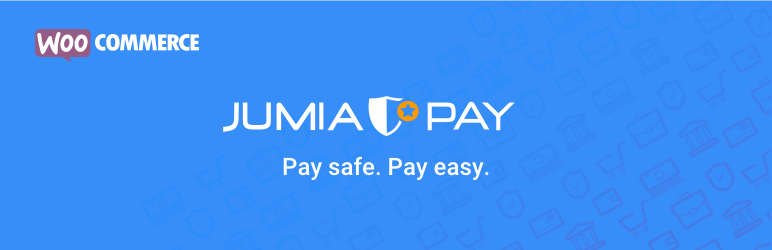
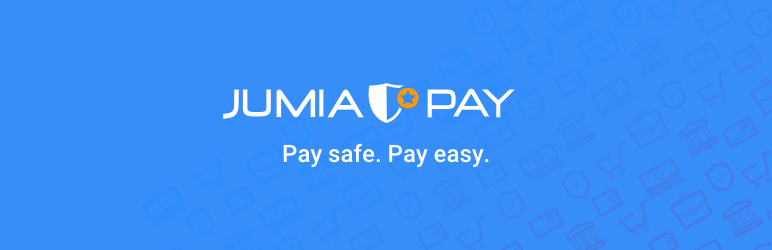
Approval submit changes (#5)
* Approval Request Changes
* Change images- removing woocommerce
* Fixed approval requests
* Add Payment Status Validation on return URL handling
* Plugin Name
* Add contributors to the readme

Changed region(s): [[0.2798, 0.336, 0.6839, 0.728], [0.0, 0.0, 1.0, 0.028], [0.0311, 0.112, 0.2798, 0.252]]

diff --git a/inc/WC_JumiaPay_Purchase.php b/inc/WC_JumiaPay_Purchase.php
@@ -48,7 +48,7 @@ class WC_JumiaPay_Purchase {
             $merchantReferenceId= substr($merchantReferenceId,0,255);
         }
 
-        return $merchantReferenceId;
+        return sanitize_text_field($merchantReferenceId);
     }
 
     private function getBasket() {
@@ -68,12 +68,12 @@ class WC_JumiaPay_Purchase {
                 $featured_img_url="";
             }
             $basketItem=[
-                "name"=> $item->get_name(),
-                "imageUrl"=>$featured_img_url ,
-                "amount"=> $item->get_subtotal(),
-                "quantity"=> $item->get_quantity(),
-                "discount"=>"",
-                "currency"=> $this->currency
+                "name"=> sanitize_text_field($item->get_name()),
+                "imageUrl"=>  esc_url_raw($featured_img_url),
+                "amount"=> sanitize_text_field($item->get_subtotal()),
+                "quantity"=> sanitize_text_field($item->get_quantity()),
+                "discount"=> "",
+                "currency"=> sanitize_text_field($this->currency)
             ];
             array_push($basketItems,$basketItem);
 
@@ -87,52 +87,52 @@ class WC_JumiaPay_Purchase {
         return [
             "shopConfig" => $this->shopConfig,
             "basket"=> [
-                "shipping"=>$this->order->get_shipping_tax(),
+                "shipping"=>sanitize_text_field($this->order->get_shipping_tax()),
                 "currency"=>$this->currency,
                 "basketItems"=>$this->getBasket(),
-                "totalAmount"=> $this->order->get_total(),
-                "discount"=>$this->order->get_discount_total(),
+                "totalAmount"=> sanitize_text_field($this->order->get_total()),
+                "discount"=>sanitize_text_field($this->order->get_discount_total()),
             ],
             "consumerData"=> [
-                "emailAddress"=> $this->order->get_billing_email(),
-                "mobilePhoneNumber"=> $this->order->get_billing_phone(),
-                "country"=> $this->countryCode,
-                "firstName"=> $this->order->get_billing_first_name(),
-                "lastName"=> $this->order->get_billing_last_name(),
-                "ipAddress"=> $this->order->get_customer_ip_address(),
+                "emailAddress"=> sanitize_email($this->order->get_billing_email()),
+                "mobilePhoneNumber"=> wc_sanitize_phone_number($this->order->get_billing_phone()),
+                "country"=> sanitize_text_field($this->countryCode),
+                "firstName"=> sanitize_text_field($this->order->get_billing_first_name()),
+                "lastName"=> sanitize_text_field($this->order->get_billing_last_name()),
+                "ipAddress"=> sanitize_text_field($this->order->get_customer_ip_address()),
                 "dateOfBirth"=> "",
                 "language"=> $this->language,
-                "name"=> $this->order->get_billing_first_name()." ".$this->order->get_billing_last_name()
+                "name"=> sanitize_text_field($this->order->get_billing_first_name()." ".$this->order->get_billing_last_name())
             ],
             "priceCurrency"=> $this->currency,
-            "priceAmount"=> $this->order->get_total(),
-            "purchaseReturnUrl"=>  $this->baseUrl."/wc-api/payment_return/?orderid=".$this->order->get_id(),
-            "purchaseCallbackUrl"=>  $this->baseUrl."/wc-api/payment_callback/?orderid=".$this->order->get_id(),
+            "priceAmount"=> sanitize_text_field($this->order->get_total()),
+            "purchaseReturnUrl"=>  esc_url_raw($this->baseUrl."/wc-api/payment_return/?orderid=".$this->order->get_id()),
+            "purchaseCallbackUrl"=> esc_url_raw($this->baseUrl."/wc-api/payment_callback/?orderid=".$this->order->get_id()),
             "shippingAddress"=> [
-                "addressLine1"=> $this->order->get_shipping_address_1(),
-                "addressLine2"=> $this->order->get_shipping_address_2(),
-                "city"=> $this->order->get_shipping_city(),
-                "district"=> $this->order->get_shipping_state(),
-                "province"=> $this->order->get_shipping_state(),
-                "zip"=> $this->order->get_shipping_postcode(),
-                "country"=> $this->order->get_shipping_country(),
-                "name"=> $this->order->get_shipping_first_name()." ".$this->order->get_shipping_last_name(),
-                "firstName"=> $this->order->get_shipping_first_name(),
-                "lastName"=> $this->order->get_shipping_last_name(),
-                "mobilePhoneNumber"=> $this->order->get_billing_phone()
+                "addressLine1"=> sanitize_text_field($this->order->get_shipping_address_1()),
+                "addressLine2"=> sanitize_text_field($this->order->get_shipping_address_2()),
+                "city"=> sanitize_text_field($this->order->get_shipping_city()),
+                "district"=> sanitize_text_field($this->order->get_shipping_state()),
+                "province"=> sanitize_text_field($this->order->get_shipping_state()),
+                "zip"=> sanitize_text_field($this->order->get_shipping_postcode()),
+                "country"=> sanitize_text_field($this->order->get_shipping_country()),
+                "name"=> sanitize_text_field($this->order->get_shipping_first_name()." ".$this->order->get_shipping_last_name()),
+                "firstName"=> sanitize_text_field($this->order->get_shipping_first_name()),
+                "lastName"=> sanitize_text_field($this->order->get_shipping_last_name()),
+                "mobilePhoneNumber"=> wc_sanitize_phone_number($this->order->get_billing_phone())
             ],
             "billingAddress"=> [
-                "addressLine1"=> $this->order->get_billing_address_1(),
-                "addressLine2"=> $this->order->get_billing_address_2(),
-                "city"=> $this->order->get_billing_city(),
-                "district"=> $this->order->get_billing_state(),
-                "province"=> $this->order->get_billing_state(),
-                "zip"=> $this->order->get_billing_postcode(),
-                "country"=> $this->order->get_billing_country(),
-                "name"=> $this->order->get_billing_first_name()." ".$this->order->get_billing_last_name(),
-                "firstName"=> $this->order->get_billing_first_name(),
-                "lastName"=> $this->order->get_billing_last_name(),
-                "mobilePhoneNumber"=> $this->order->get_billing_phone()
+                "addressLine1"=> sanitize_text_field($this->order->get_billing_address_1()),
+                "addressLine2"=> sanitize_text_field($this->order->get_billing_address_2()),
+                "city"=> sanitize_text_field($this->order->get_billing_city()),
+                "district"=> sanitize_text_field($this->order->get_billing_state()),
+                "province"=> sanitize_text_field($this->order->get_billing_state()),
+                "zip"=> sanitize_text_field($this->order->get_billing_postcode()),
+                "country"=> sanitize_text_field($this->order->get_billing_country()),
+                "name"=> sanitize_text_field($this->order->get_billing_first_name()." ".$this->order->get_billing_last_name()),
+                "firstName"=> sanitize_text_field($this->order->get_billing_first_name()),
+                "lastName"=> sanitize_text_field($this->order->get_billing_last_name()),
+                "mobilePhoneNumber"=> wc_sanitize_phone_number($this->order->get_billing_phone())
             ],
             "merchantReferenceId"=> $this->generateMerchantReference()
         ];

diff --git a/inc/WC_JumiaPay_Gateway.php b/inc/WC_JumiaPay_Gateway.php
@@ -11,6 +11,7 @@ require_once JPAY_DIR . 'inc/WC_JumiaPay_Callback.php';
 require_once JPAY_DIR . 'inc/WC_JumiaPay_Client.php';
 require_once JPAY_DIR . 'inc/WC_JumiaPay_Purchase.php';
 require_once JPAY_DIR . 'inc/WC_JumiaPay_Refund.php';
+require_once JPAY_DIR . 'inc/validators/WC_JumiaPay_Validators.php';
 
 class WC_JumiaPay_Gateway extends WC_Payment_Gateway {
 
@@ -28,11 +29,11 @@ class WC_JumiaPay_Gateway extends WC_Payment_Gateway {
         $this->icon = apply_filters( 'woocommerce_jumiaPay_icon', plugins_url('/assets/image/Jumia-pay-logo-vertival.svg', dirname( __FILE__ ) ) );
         $this->has_fields = true;
 
-        $this->method_title = 'JumiaPay';
-        $this->method_description = 'JumiaPay payment gateway for WooCommerce';
+        $this->method_title =  esc_html('JumiaPay');
+        $this->method_description = esc_html('JumiaPay for WooCommerce - Payment Gateway');
 
-        $this->title = 'JumiaPay';
-        $this->description = 'Pay with your JumiaPay account and your preferred payment options';
+        $this->title = esc_html('JumiaPay');
+        $this->description = esc_html('Pay with your JumiaPay account and your preferred payment options');
         $this->instructions = $this->get_option( 'instructions', $this->description );
 
         $JpayClient = new WC_JumiaPay_Client(
@@ -91,8 +92,8 @@ class WC_JumiaPay_Gateway extends WC_Payment_Gateway {
     public function payment_callback() {
         if($_SERVER['REQUEST_METHOD'] === 'POST'){
 
-            $orderId= isset($_GET['orderid']) ? $_GET['orderid'] : '';
-            if ($orderId == '') {
+            $orderId = filter_input(INPUT_GET, 'orderid', FILTER_SANITIZE_ENCODED);
+            if ($orderId == '' || $orderId == false || $orderId == null) {
               return;
             }
 
@@ -100,6 +101,11 @@ class WC_JumiaPay_Gateway extends WC_Payment_Gateway {
             $DecodeBody=urldecode($body);
             parse_str($DecodeBody,$bodyArray);
             $JsonDecodeBody = json_decode($bodyArray['transactionEvents'], true);
+
+            if (!isset($JsonDecodeBody[0]['newStatus'])) {
+                wp_send_json(['success' => false, 'payload' => 'Wrong Paylod received'], 400);
+                return;
+            }
 
             $callbackHandler = new WC_JumiaPay_Callback(wc_get_order($orderId));
             $success = $callbackHandler->handle($JsonDecodeBody[0]['newStatus']);
@@ -115,13 +121,20 @@ class WC_JumiaPay_Gateway extends WC_Payment_Gateway {
 
     public function payment_return() {
 
-        $orderId= isset($_GET['orderid']) ? $_GET['orderid'] : '';
-        if ($orderId == '') {
+        $orderId = filter_input(INPUT_GET, 'orderid', FILTER_SANITIZE_ENCODED);
+        if ($orderId == '' || $orderId == false || $orderId == null) {
             return;
         }
 
-        $paymentStatus= isset($_GET['paymentStatus']) ? $_GET['paymentStatus'] : '';
+        $paymentStatus = WC_JumiaPay_Validator::ValidatePaymentStatus(filter_input(INPUT_GET, 'paymentStatus', FILTER_SANITIZE_ENCODED));
         $order = wc_get_order($orderId);
+
+        if ($paymentStatus == '' || $paymentStatus == false || $paymentStatus == null) {
+            wc_add_notice('Payment Failed', 'error');
+            if (wp_safe_redirect(wc_get_page_permalink('cart'))) {
+              exit;
+            }
+        }
 
         if($paymentStatus=='failure'){
             wc_add_notice('Payment Cancelled', 'error');

diff --git a/inc/settings/settings.php b/inc/settings/settings.php
@@ -6,71 +6,71 @@ if ( ! defined( 'ABSPATH' ) ) {
 
 $pluginFields=array(
     'enabled' => array(
-        'title' => 'Enable/Disable',
+        'title' => esc_html('Enable/Disable'),
         'type' => 'checkbox',
-        'label' => 'Enable or Disable JumiaPay',
+        'label' => esc_html('Enable or Disable JumiaPay'),
         'default' => 'no',
 
     ),
     "environment"=> array(
-        'title' => 'Environment',
+        'title' => esc_html('Environment'),
         'type' => 'select',
         'default' => '',
         'desc_tip' => true,
         'options' => array(
-            'Live' => 'Live',
-            'Sandbox' => 'Sandbox',
+            'Live' => esc_html('Live'),
+            'Sandbox' => esc_html('Sandbox'),
         ),
     ),
     "live_title"=> array(
-        'title' => esc_html__( 'Live Settings', 'jumia-pay-woo' ),
+        'title' => esc_html('Live Settings'),
         'type'  => 'title',
     ),
     "country_list"=> array(
-        'title' => 'Country List',
+        'title' => esc_html('Country List'),
         'type' => 'select',
         'default' => '',
         'desc_tip' => true,
-        'description' => 'Note that the currency of your WooCommerce store, under "General settings", must be the one used on the country you are operating and selecting here.',
+        'description' => esc_html('Note that the currency of your WooCommerce store, under "General settings", must be the one used on the country you are operating and selecting here.'),
         'default' => '',
         'options' => array(
-            'EG' => 'Egypt',
-            'NG' => 'Nigeria',
+            'EG' => esc_html('Egypt'),
+            'NG' => esc_html('Nigeria'),
         ),
     ),
     "shop_config_key"=> array(
-        'title' => 'Shop Key',
+        'title' => esc_html('Shop Key'),
         'type' => 'textarea',
         'default' => '',
     ),
     "api_key"=> array(
-        'title' => 'Merchant Api Key',
+        'title' => esc_html('Merchant Api Key'),
         'type' => 'textarea',
         'default' => '',
     ),
     "sandbox_title"=> array(
-        'title' => esc_html__( 'Sandbox Settings', 'jumia-pay-woo' ),
+        'title' => esc_html('Sandbox Settings'),
         'type'  => 'title',
     ),
     "sandbox_country_list"=> array(
-        'title' => 'Country List',
+        'title' =>  esc_html('Country List'),
         'type' => 'select',
         'default' => '',
         'desc_tip' => true,
-        'description' => 'Note that the currency of your WooCommerce store, under "General settings", must be the one used on the country you are operating and selecting here.',
+        'description' => esc_html('Note that the currency of your WooCommerce store, under "General settings", must be the one used on the country you are operating and selecting here.'),
         'default' => '',
         'options' => array(
-            'EG' => 'Egypt',
-            'NG' => 'Nigeria',
+            'EG' => esc_html('Egypt'),
+            'NG' => esc_html('Nigeria'),
         ),
     ),
     "sandbox_shop_config_key"=> array(
-        'title' => 'Shop Key',
+        'title' => esc_html('Shop Key'),
         'type' => 'textarea',
         'default' => '',
     ),
     "sandbox_api_key"=> array(
-        'title' => 'Merchant Api Key',
+        'title' => esc_html('Merchant Api Key'),
         'type' => 'textarea',
         'default' => '',
     ),

diff --git a/inc/WC_JumiaPay_Client.php b/inc/WC_JumiaPay_Client.php
@@ -6,6 +6,8 @@ if ( ! defined( 'ABSPATH' ) ) {
     exit;
 }
 
+require_once JPAY_DIR . 'inc/validators/WC_JumiaPay_Validators.php';
+
 class WC_JumiaPay_Client {
 
     /*
@@ -47,15 +49,15 @@ class WC_JumiaPay_Client {
         $sandboxShopConfig,
         $sandboxApiKey
     ) {
-        $this->environment=$env;
+        $this->environment= WC_JumiaPay_Validator::ValidateEnvironment($env);
 
-        $this->countryCode = $countryCode;
-        $this->shopConfig = $shopConfig;
-        $this->apiKey = $apikey;
+        $this->countryCode = WC_JumiaPay_Validator::ValidateCountryCode($countryCode);
+        $this->shopConfig = sanitize_text_field($shopConfig);
+        $this->apiKey = sanitize_text_field($apikey);
 
-        $this->sandboxCountryCode = $sandboxCountryCode;
-        $this->sandboxShopConfig=$sandboxShopConfig;
-        $this->sandboxApiKey=$sandboxApiKey;
+        $this->sandboxCountryCode = WC_JumiaPay_Validator::ValidateCountryCode($sandboxCountryCode);
+        $this->sandboxShopConfig=sanitize_text_field($sandboxShopConfig);
+        $this->sandboxApiKey=sanitize_text_field($sandboxApiKey);
     }
 
     /**

diff --git a/inc/WC_JumiaPay_Refund.php b/inc/WC_JumiaPay_Refund.php
@@ -38,7 +38,7 @@ class WC_JumiaPay_Refund {
             $merchantReferenceId= substr($merchantReferenceId,0,255);
         }
 
-        return $merchantReferenceId;
+        return sanitize_text_field($merchantReferenceId);
     }
 
     public function generateData() {
@@ -46,11 +46,11 @@ class WC_JumiaPay_Refund {
 
         return [
             "shopConfig" => $this->shopConfig,
-            "refundAmount" => $this->amount,
+            "refundAmount" => sanitize_text_field($this->amount),
             "refundCurrency" => $this->currency,
-            "description" =>  "Refund for order #".$merchantReferenceId,
+            "description" => sanitize_text_field("Refund for order #".$merchantReferenceId),
             "purchaseReferenceId" => $merchantReferenceId,
-            "referenceId"=> $this->generateMerchantReference()
+            "referenceId"=> sanitize_text_field($this->generateMerchantReference())
         ];
     }
 }

diff --git a/inc/validators/WC_JumiaPay_Validators.php b/inc/validators/WC_JumiaPay_Validators.php
@@ -1,0 +1,25 @@
+<?php
+/**
+ *  Validators.
+ */
+if ( ! defined( 'ABSPATH' ) ) {
+    exit;
+}
+
+class WC_JumiaPay_Validator {
+
+        public static function ValidateEnvironment($env) {
+                $validEnviroments = ['Live', 'Sandbox'];
+                return in_array($env, $validEnviroments) ? $env : "";
+        }
+
+        public static function ValidateCountryCode($countryCode) {
+                $validCountryCode = ['NG', 'EG'];
+                return in_array($countryCode, $validCountryCode) ? $countryCode : "";
+        }
+
+        public static function ValidatePaymentStatus($paymentStatus) {
+                $validPaymentStatus = ['success', 'failure'];
+                return in_array($paymentStatus, $validPaymentStatus) ? $paymentStatus : "";
+        }
+}

diff --git a/woocommerce-jumiapay.php b/woocommerce-jumiapay.php
@@ -1,14 +1,13 @@
 <?php
 /**
- * Plugin Name: woocommerce jumiaPay
+ * Plugin Name: JumiaPay For Woocommerce
  * Plugin URI: https://github.com/JumiaPayAIG/woocommerce-plugin
  * Author Name: Pharaoh Soft
  * Author URI: http://www.pharaohsoft.com/
- * Description: This plugin allows for local content payment systems.
- * Version: 1.0.0
+ * Description: JumiaPay payment gateway for WooCommerce
+ * Version: 1.2.0
  * Licence: Apache-2.0 License
  * Licence URI: https://github.com/JumiaPayAIG/woocommerce-plugin/blob/master/LICENSE
- * text-domain: woocommerce-jumiaPay
  */
 
 /**

diff --git a/inc/WC_JumiaPay_Callback.php b/inc/WC_JumiaPay_Callback.php
@@ -1,6 +1,6 @@
 <?php
 /**
- * Cart handler.
+ * Callback handler.
  */
 if ( ! defined( 'ABSPATH' ) ) {
     exit;
